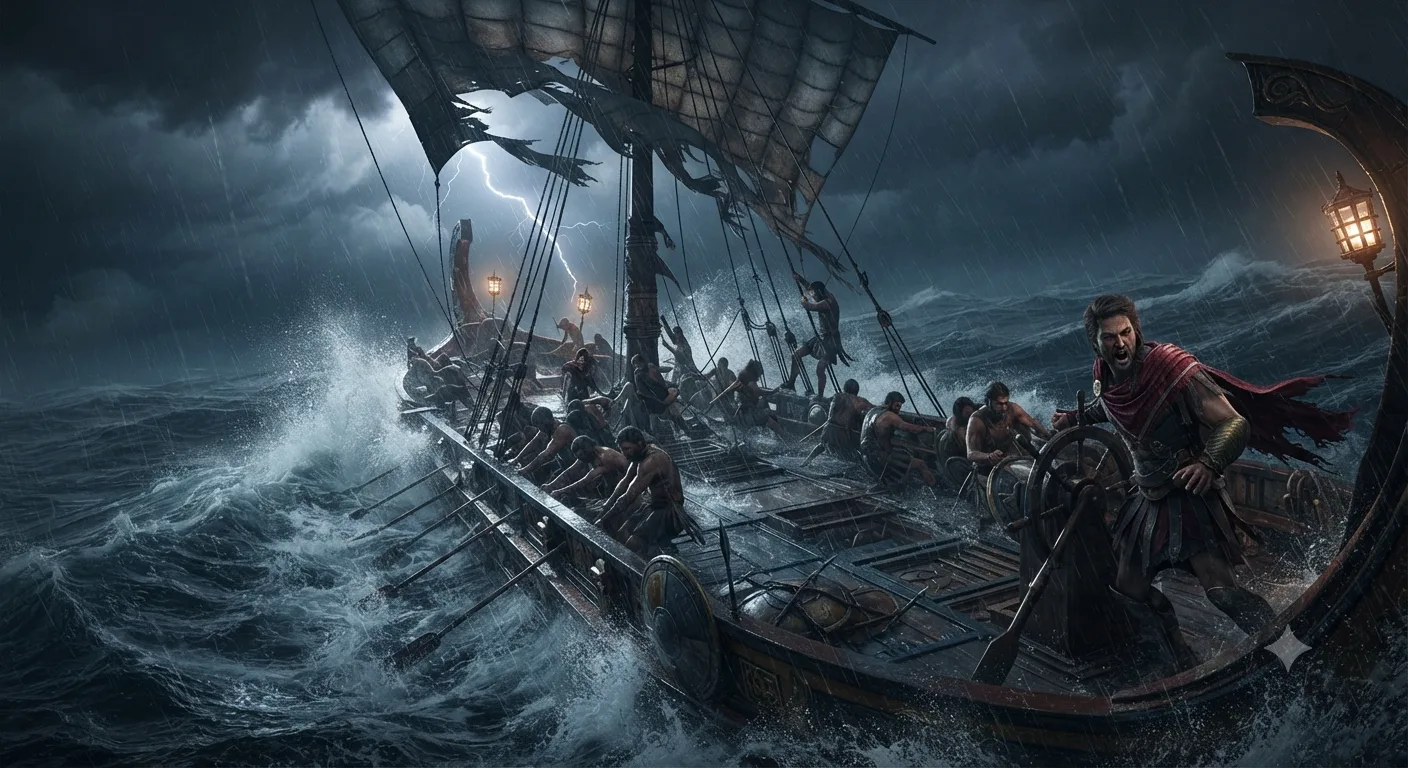
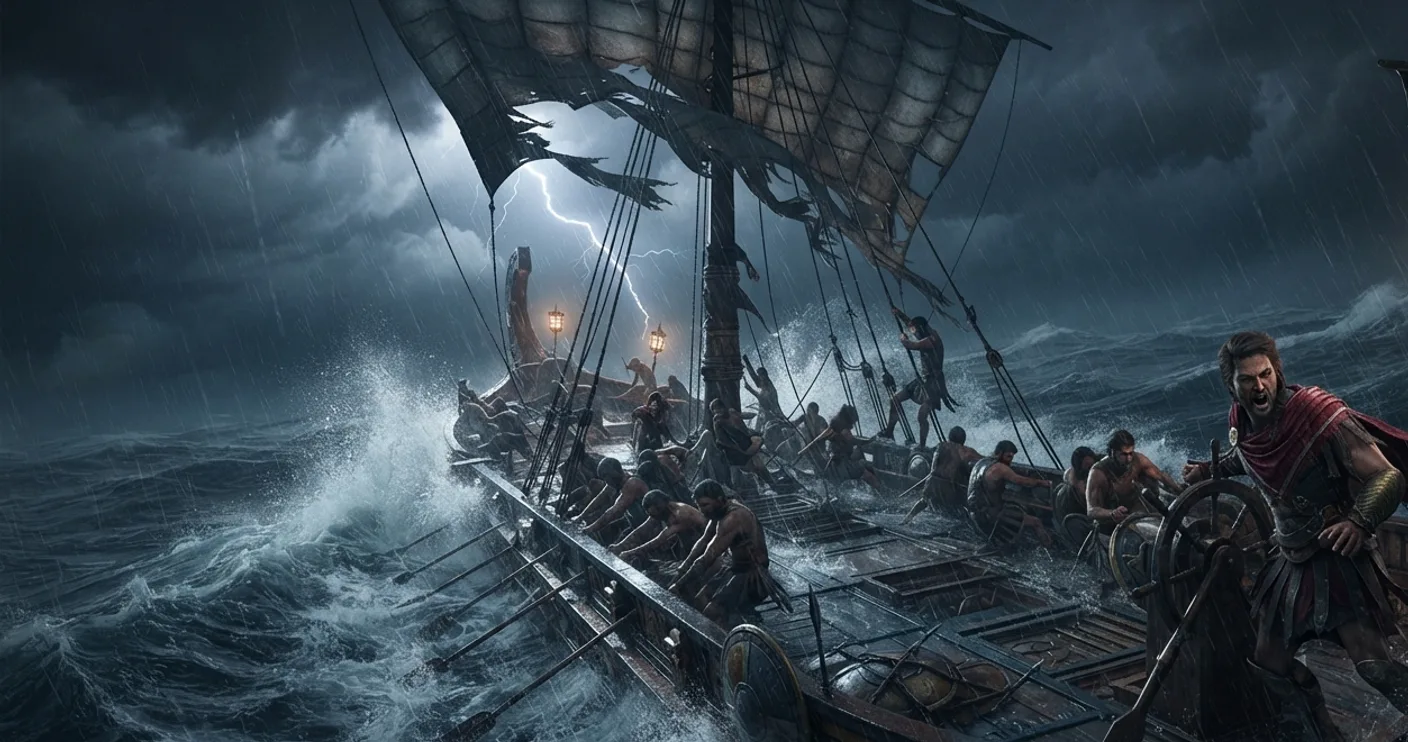
막간 배경 여덟 장 다 채움
제미나이로 뽑아 넣었다 — 저승을 나오는 배, 이십 년 만의 뭍, 조용해진 홀,
그리고 오프닝의 불타는 트로이.

- tools/prep-ludes.mjs: art/ 원본을 잘라 public/img/ 로. 생성기가 오른쪽
  아래에 박는 표식은 그 귀퉁이째로 잘라 낸다. 막간은 cover 로 깔고 천천히
  밀어 쓰기 때문에 조금 잘려도 티가 안 난다
- 오프닝도 그림을 받는다

diff --git a/src/stage/stages.js b/src/stage/stages.js
@@ -232,6 +232,7 @@ export const STAGE_BY_ID = new Map(STAGES.map(s => [s.id, s]))
 /** 맨 처음. 왜 바다에 있는지부터 말한다. */
 export const OPENING = {
   scene: 'fire',
+  art: '/img/lude-opening.webp',
   lines: [
     { text: '십 년이 걸렸다. <em>트로이가 불탔다.</em>', hold: 3000 },
     { text: '열두 척으로 떠났다.<br>집까지는 며칠이면 되는 거리였다.', hold: 3400 },
